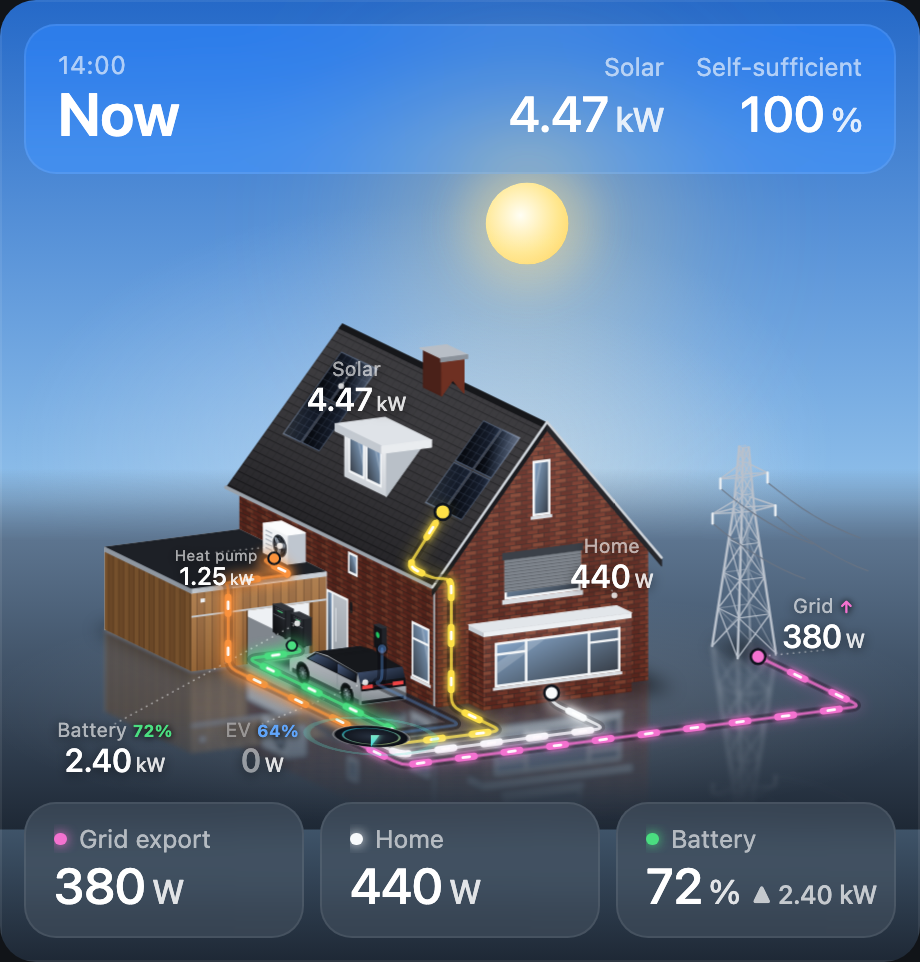
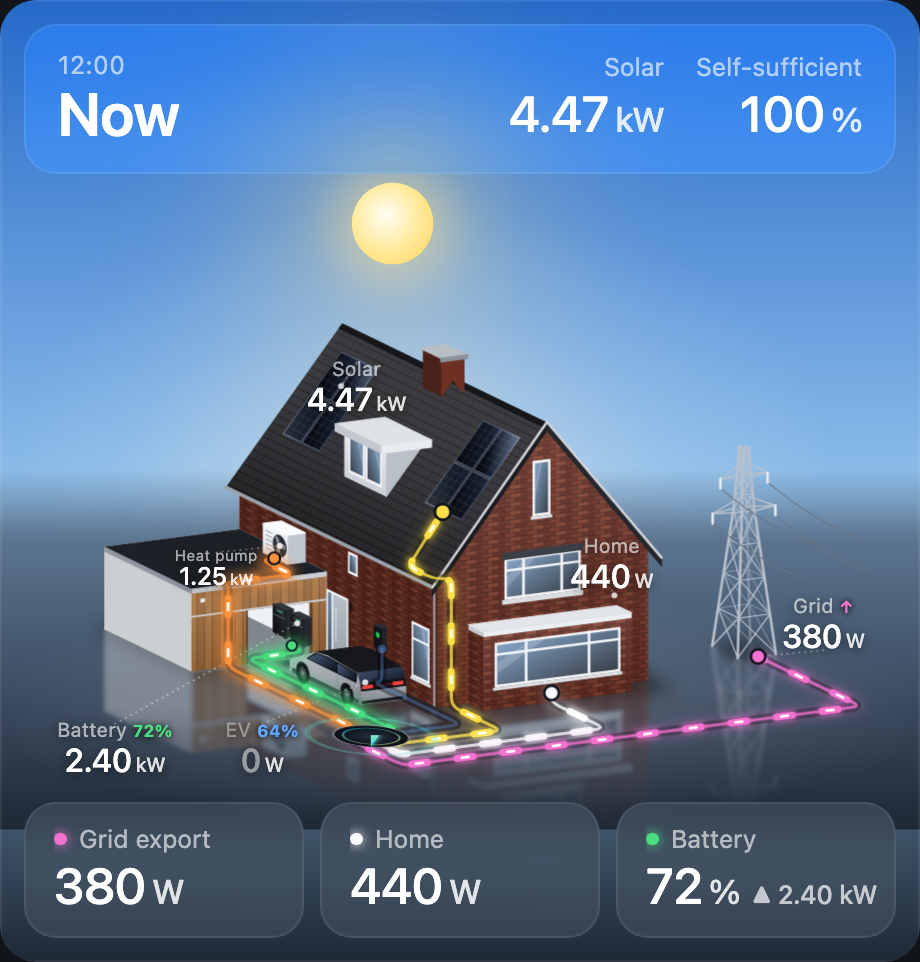
v3.3.3: roller shutter follows day/night, matching window bars, white garage side wall

diff --git a/home-energy-scene-card.js b/home-energy-scene-card.js
@@ -4,7 +4,7 @@
  * with solar roof, home battery, EV, heat pump and grid connection on a glossy floor.
  * Power lines pulse when energy flows; backdrop and lighting follow the time of day.
  */
-const HESC_VERSION = '3.3.2';
+const HESC_VERSION = '3.3.3';
 
 const I18N = {
   en: {
@@ -167,15 +167,15 @@ function house(m) {
   s += `<g transform="${frameX(0, 0, 0, m)}">
     <polygon points="0,0 ${HW},0 ${HW},${-HE} ${HW / 2},${-HR} 0,${-HE}" fill="url(#pBrick)"/>
     <polygon points="0,0 ${HW},0 ${HW},${-HE} ${HW / 2},${-HR} 0,${-HE}" fill="url(#gWallLight)"/>
-    ${rl(29, 65, 39, 41, '#d9dde2')}${windowL(30, 64, 41, 58, m, { sill: false })}
-    ${rl(30, 64, 44, 58.5, 'url(#pShutter)')}${rl(29, 65, 57.5, 60.5, '#3b4048')}
+    ${rl(29, 65, 39, 41, '#d9dde2')}${windowL(30, 64, 41, 58, m, { sill: false, mull: [38.5, 55.5], tr: 53 })}
+    ${rl(30, 64, 44, 58.5, 'url(#pShutter)', 'class="shutter"')}${rl(29, 65, 57.5, 60.5, '#3b4048')}
     ${windowL(42.5, 50.5, 74, 97, m)}
   </g>`;
   // bay window volume
   s += `<g transform="${frameZ(14, 0, 0, m)}">${rl(-10, 0, 0, 32, 'url(#pBrick)')}${rl(-10, 0, 0, 32, '#000', 'opacity=".2"')}${rl(-10, 0, 30.5, 32.6, '#c4cad1')}</g>`;
   s += `<g transform="${frameX(0, 0, -10, m)}">
     ${rl(14, 80, 0, 32, 'url(#pBrick)')}${rl(14, 80, 0, 32, 'url(#gWallLight)')}${rl(14, 80, 30.5, 32.6, '#eceff2')}
-    ${windowL(19, 75, 9, 27.5, m, { mull: [33, 61] })}${rl(19, 33, 22, 23, '#f4f6f8')}${rl(61, 75, 22, 23, '#f4f6f8')}
+    ${windowL(19, 75, 9, 27.5, m, { mull: [33, 61] })}${rl(19, 75, 22, 23, '#f4f6f8')}
   </g>`;
   if (m > 0) s += poly([[14, 32.6, -10], [80, 32.6, -10], [80, 32.6, 0], [14, 32.6, 0]], '#e2e6ea', m);
   if (m < 0) return s;
@@ -239,7 +239,7 @@ function garage(m) {
   s += poly([[x1, 0, z0], [x1, 0, z1], [x1, h, z1], [x1, h, z0]], '#eef1f4', m);
   s += `<g class="garagewarm">${poly([[x0, 0, z1], [x1, 0, z1], [x1, h, z1], [x0, h, z1]], 'url(#gGarageWarm)', m)}${poly([[x1, 0, z0], [x1, 0, z1], [x1, h, z1], [x1, h, z0]], 'url(#gGarageWarm)', m)}</g>`;
   // outside walls
-  s += `<g transform="${frameZ(x0, 0, 0, m)}">${rl(z0, z1, 0, h, 'url(#pWood)')}${rl(z0, z1, 0, h, '#000', 'opacity=".3"')}</g>`;
+  s += `<g transform="${frameZ(x0, 0, 0, m)}">${rl(z0, z1, 0, h, '#eef1f4')}${rl(z0, z1, 0, h, '#000', 'opacity=".14"')}</g>`;
   s += poly([[d1, 0, z0], [d1, 0, z0 + 2], [d1, dh, z0 + 2], [d1, dh, z0]], '#6b4626', m);
   const hole = `M${x0} 0H${x1}V${-h}H${x0}ZM${d0} 0V${-dh}H${d1}V0Z`;
   s += `<g transform="${frameX(0, 0, z0, m)}">
@@ -934,6 +934,8 @@ class HomeEnergySceneCard extends HTMLElement {
 
     // lights
     $$('.winwarm').forEach((w) => w.setAttribute('opacity', (0.12 + 0.88 * lamp).toFixed(2)));
+    const shut = clamp((n - 0.35) / 0.3); // roller shutter: open by day, down after dusk
+    $$('.shutter').forEach((r) => r.setAttribute('height', (14.5 * shut).toFixed(2)));
     $$('.garagewarm').forEach((w) => w.setAttribute('opacity', (0.9 * lamp).toFixed(2)));
     $('spill').setAttribute('opacity', (0.75 * lamp).toFixed(2));
     $('bloom').setAttribute('opacity', lamp.toFixed(2));

diff --git a/README.md b/README.md
@@ -29,7 +29,7 @@ HACS registers the dashboard resource for you. If you installed the card manuall
 
 1. Copy `home-energy-scene-card.js` to `<config>/www/home-energy-scene-card.js`.
 2. Go to **Settings → Dashboards → ⋮ → Resources → Add resource**:
-   - URL: `/local/home-energy-scene-card.js?v=3.3.2`
+   - URL: `/local/home-energy-scene-card.js?v=3.3.3`
    - Type: **JavaScript module**
 3. Refresh the browser (hard refresh), then add a card of type `custom:home-energy-scene-card`.
 
